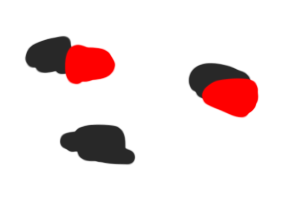
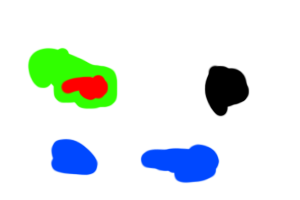
Add multi-d implmentation

Changed region(s): [[0.15, 0.6, 0.75, 0.93], [0.06, 0.18, 0.42, 0.57], [0.6, 0.3, 0.87, 0.6]]

diff --git a/k-means/main.py b/k-means/main.py
@@ -8,12 +8,13 @@ from alg import k_means
 
 def main():
     img = load_img("%s/%s" % (os.path.abspath(os.path.dirname(__file__)), "data/test.png"))
-    dataset = extract_gray_scaled_dataset(img)
+    dataset = extract_rgb_dataset(img)
     print("\n**** Beginning of K-Means ****")
-    clusters = k_means(dataset)
-    colors = [ "#ff0000", "#00ff00", "#0000ff" ]
+    clusters = k_means(dataset, 5)
+    colors = [ "#1f77b4", "#ff7f0e", "#2ca02c", "#d62728", "#e377c2" ]
+    markers = [ 'o', 'v', '^', '<', '>', '8', 's', 'p', '*', 'h', 'H', 'D', 'd' ]
     for i, cluster in enumerate(clusters):
-        plt.scatter(cluster[:, 0], cluster[:, 1], c = colors[i], s = 10)
+        plt.scatter(cluster[:, 0], cluster[:, 1], s=15, c=colors[i], marker = markers[i])
     plt.show()
     print("******* End of K-Means *******")
 
@@ -26,6 +27,19 @@ def extract_gray_scaled_dataset(img):
         for x in range(row.shape[0]):
             if row[x] != 255:
                 points.append((x, y))
+    print("%d points were extracted from the image." % len(points))
+    return np.array(points)
+
+def extract_rgb_dataset(img):
+    print("Extracting points...")
+    points = [];
+    height, width, color_depth = img.shape
+    for y in range(height):
+        row = img[y]
+        for x in range(width):
+            color = row[x];
+            if not np.array_equal(color, [255, 255, 255]):
+                points.append((x / width, y / height, color[0] / 255, color[1] / 255, color[2] / 255))
     print("%d points were extracted from the image." % len(points))
     return np.array(points)
 

diff --git a/k-means/alg.py b/k-means/alg.py
@@ -17,6 +17,7 @@ def k_means(dataset, k = 3):
         if changed:
             centroids = new_centroids
             clusters = _cluster(dataset, centroids)
+            print([ len(cluster) for cluster in clusters ])
 
     return clusters
 
@@ -26,18 +27,25 @@ def _cluster(dataset, centroids):
     for i in range(len(centroids)):
         clusters.append([])
     for point in dataset:
-        distance2 = np.sum((centroids - point) ** 2, -1)
-        cluster = clusters[distance2.argmin()]
+        distance = _calculate_distance(centroids, point);
+        cluster = clusters[distance.argmin()]
         cluster.append(list(point))
     for i in range(len(centroids)):
         clusters[i] = np.array(clusters[i])
     return np.array(clusters)
 
 
+def _calculate_distance(centroids, point):
+    return np.sum((centroids - point) ** 2, axis=-1)
+
+
 def _get_centroids(clusters):
     centroids = []
+    dim = len(clusters[0][0])
     for cluster in clusters:
-        centroid = (np.mean(cluster[:, 0]), np.mean(cluster[:, 1]))
+        centroid = []
+        for d in range(dim):
+            centroid.append(np.mean(cluster[:, d]))
         centroids.append(centroid)
     return np.array(centroids)
 
